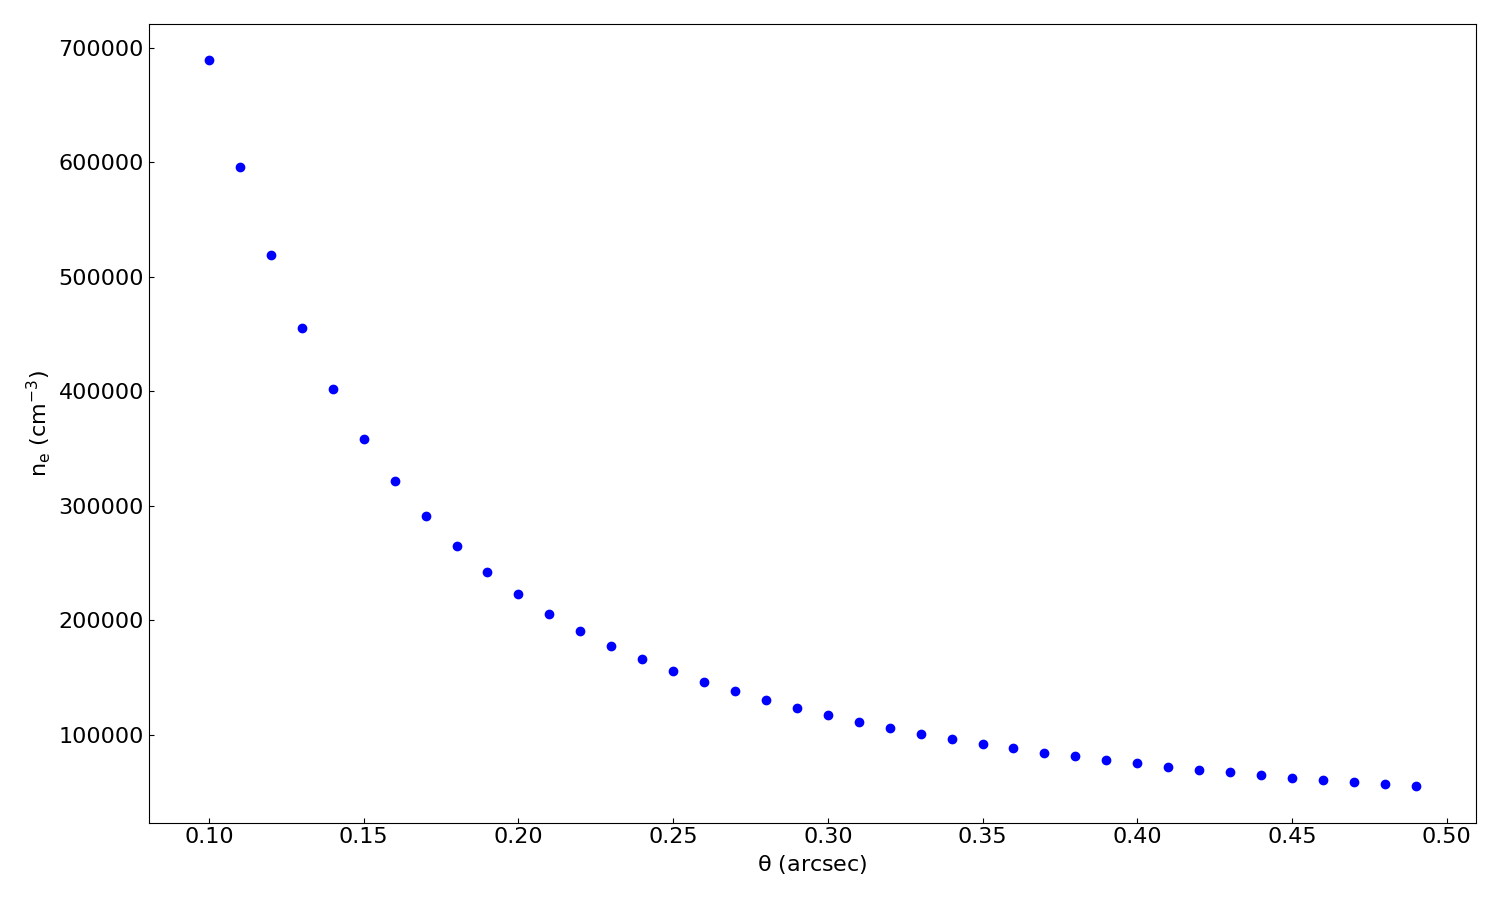
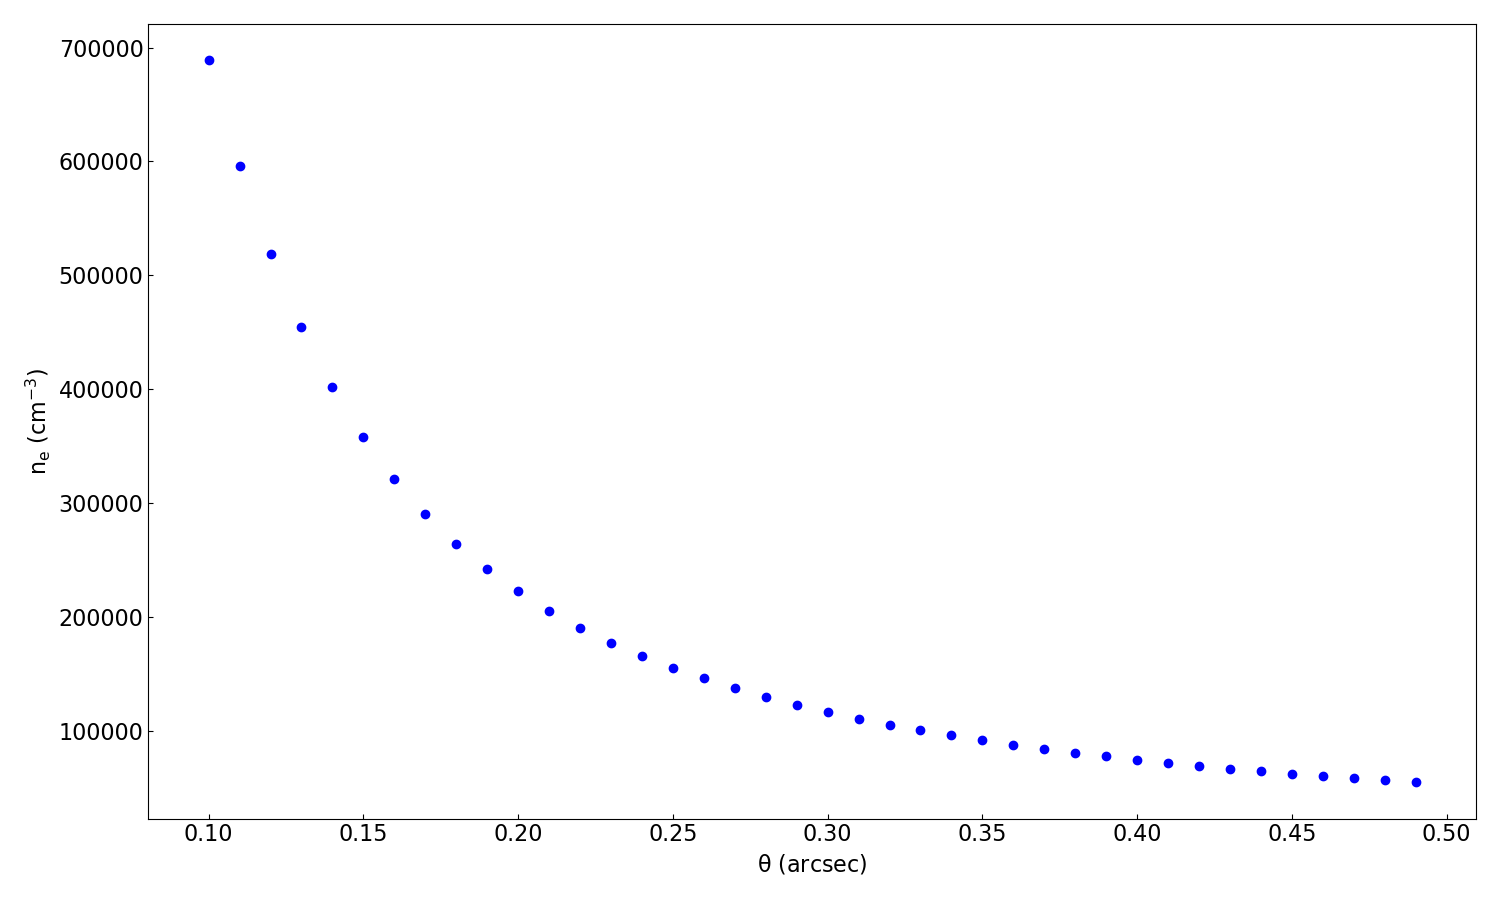
Put in correct values for electron density plots for L1551 IRS 5 S

diff --git a/spectrum/L1551_IRS_5_S_n_e_vs_T_e.py b/spectrum/L1551_IRS_5_S_n_e_vs_T_e.py
@@ -41,20 +41,16 @@ def combined_power_law_fit(freq, alpha_high, K_2, K_3,):
         return log_flux
 
 # Flux values
-#flux = np.array([0.11, 0.51, 0.90, 1.19, 1.27, 1.63, 12.15, 34.07, 85.10, 271., 497.])
-#flux_err = np.array([0.00, 0.10, 0.03, 0.03, 0.05, 0.04, 0.10, 0.76, 1.70, 17., 35.])
-#flux = np.array([0.11, 0.51, 0.90, 1.19, 1.27, 1.63, 10.57, 13.63, 34.07, 85.10, 271., 497.])
-#flux_err = np.array([0.00, 0.10, 0.03, 0.03, 0.05, 0.04, 0.20, 0.45, 0.76, 1.70, 17., 35.])
-flux = np.array([0.11, 0.51, 0.90, 1.19, 1.27, 1.63, 34.07, 85.10, 271., 497.])
-flux_err = np.array([0.00, 0.10, 0.03, 0.03, 0.05, 0.04, 0.76, 1.70, 17., 35.])
+flux = np.array([1.13, 1.66, 1.89, 1.92, 2.11, 2.03, 20.02, 48.14, 154., 291.])
+flux_err = np.array([0.10, 0.07, 0.04, 0.03, 0.06, 0.05, 0.47, 0.82, 15., 27.])
 
 # Flux values from Rodriguez et al. (1998)
-flux_1998 = np.array([0.70, 0.78, 1.2, 2.0, 7.4, 45.0])
+flux_1998 = np.array([0.60, 0.70, 0.9, 1.5, 4.8, 23.0])
 flux_err_1998 = np.array([0.20, 0.02, 0.10, 0.2, 0.5, 6.0])
 
 # Flux values from Rodriguez et al. (2003)
-flux_2003 = np.array([0.51])
-flux_err_2003 = np.array([0.02])
+flux_2003 = np.array([1.14])
+flux_err_2003 = np.array([0.03])
 
 # Add in quadrature 10% absolute flux calibration error
 flux_err = np.sqrt(flux_err**2 + (0.1*flux)**2)
@@ -95,7 +91,6 @@ log_freq_2003 = np.log10(freq_2003)
 ############## 2. Find electron density for each T_e value #################
 ################################################################################
 n_e_values = np.zeros(len(T_e_values))
-print(n_e_values)
 for i in range(len(T_e_values)):
     T_e = T_e_values[i]
     init_guess = [2.0, 1e4, 0.01]
@@ -134,7 +129,7 @@ plt.xlabel('T_e (K)')
 plt.ylabel(r'$n_{e}\ (cm^{-3})$')
 
 # Set axes
-plt.axis([0.0, 50000.0, 0.0, 150000.0])
+plt.axis([0.0, 50000.0, 0.0, 1000000.0])
 
 plt.tight_layout()				# Make everything fit in window
 plt.savefig('L1551_IRS_5_S_ff_spec_fit_n_e_vs_T_e.png')
@@ -185,7 +180,7 @@ plt.xlabel(r'$\theta$ (arcsec)')
 plt.ylabel(r'$n_{e}\ (cm^{-3})$')
 
 # Set axes
-plt.axis([0.0, 0.5, 0.0, 200000.0])
+plt.axis([0.0, 0.5, 0.0, 1000000.0])
 
 plt.tight_layout()				# Make everything fit in window
 plt.savefig('L1551_IRS_5_S_ff_spec_fit_n_e_vs_theta.png')

diff --git a/spectrum/L1551_IRS_5_N_n_e_vs_T_e.py b/spectrum/L1551_IRS_5_N_n_e_vs_T_e.py
@@ -41,10 +41,6 @@ def combined_power_law_fit(freq, alpha_high, K_2, K_3,):
         return log_flux
 
 # Flux values
-#flux = np.array([0.11, 0.51, 0.90, 1.19, 1.27, 1.63, 12.15, 34.07, 85.10, 271., 497.])
-#flux_err = np.array([0.00, 0.10, 0.03, 0.03, 0.05, 0.04, 0.10, 0.76, 1.70, 17., 35.])
-#flux = np.array([0.11, 0.51, 0.90, 1.19, 1.27, 1.63, 10.57, 13.63, 34.07, 85.10, 271., 497.])
-#flux_err = np.array([0.00, 0.10, 0.03, 0.03, 0.05, 0.04, 0.20, 0.45, 0.76, 1.70, 17., 35.])
 flux = np.array([0.11, 0.51, 0.90, 1.19, 1.27, 1.63, 34.07, 85.10, 271., 497.])
 flux_err = np.array([0.00, 0.10, 0.03, 0.03, 0.05, 0.04, 0.76, 1.70, 17., 35.])
 
